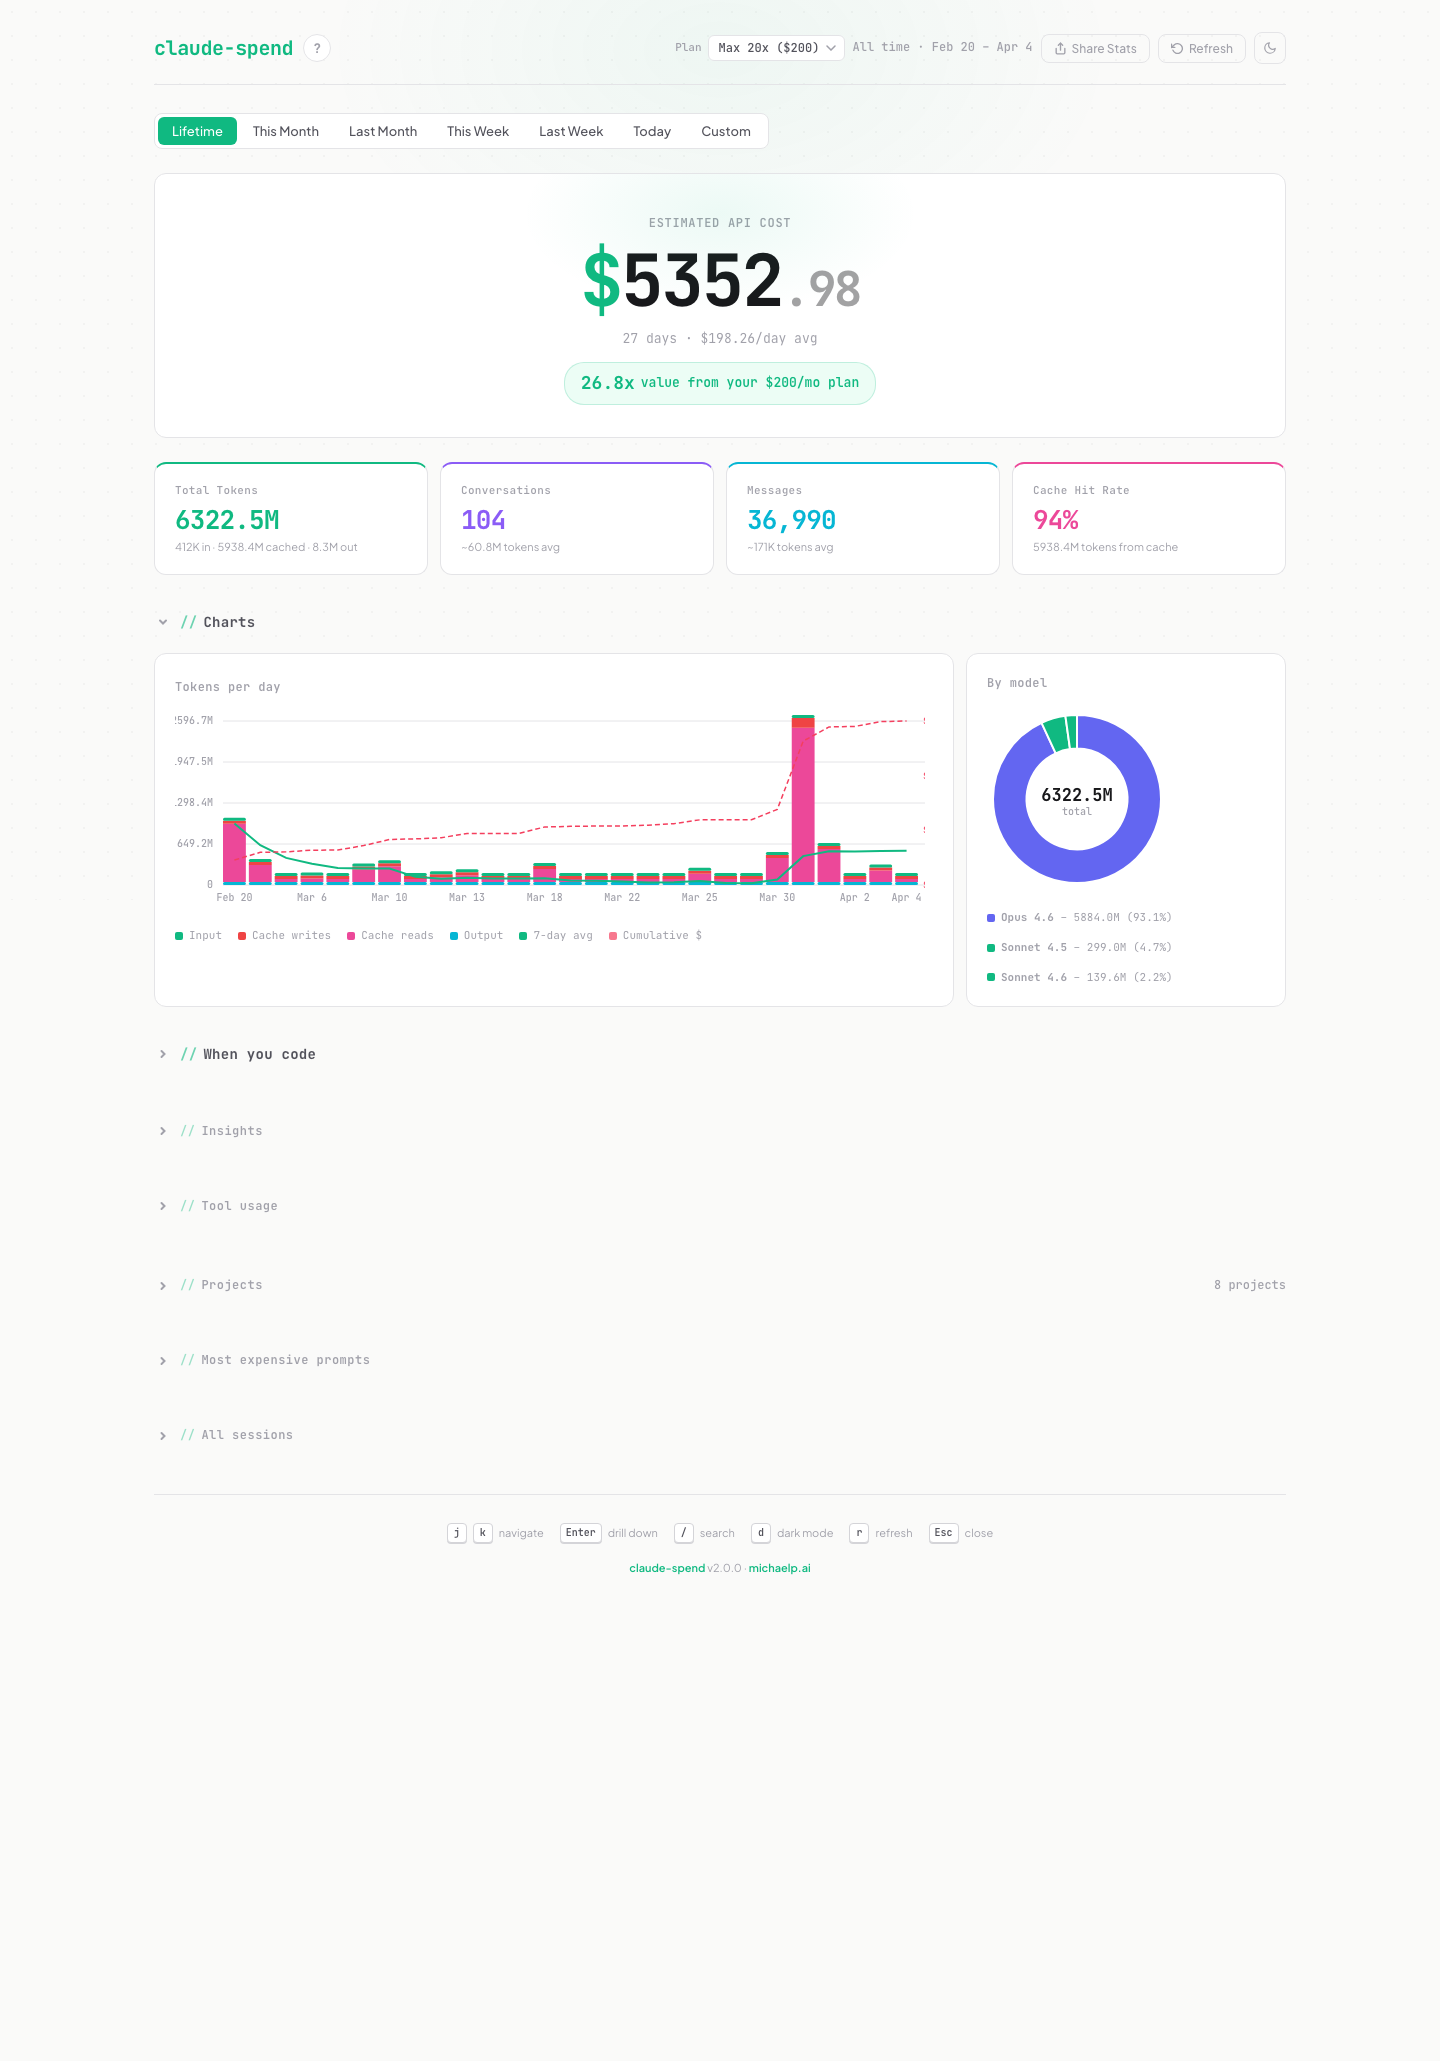
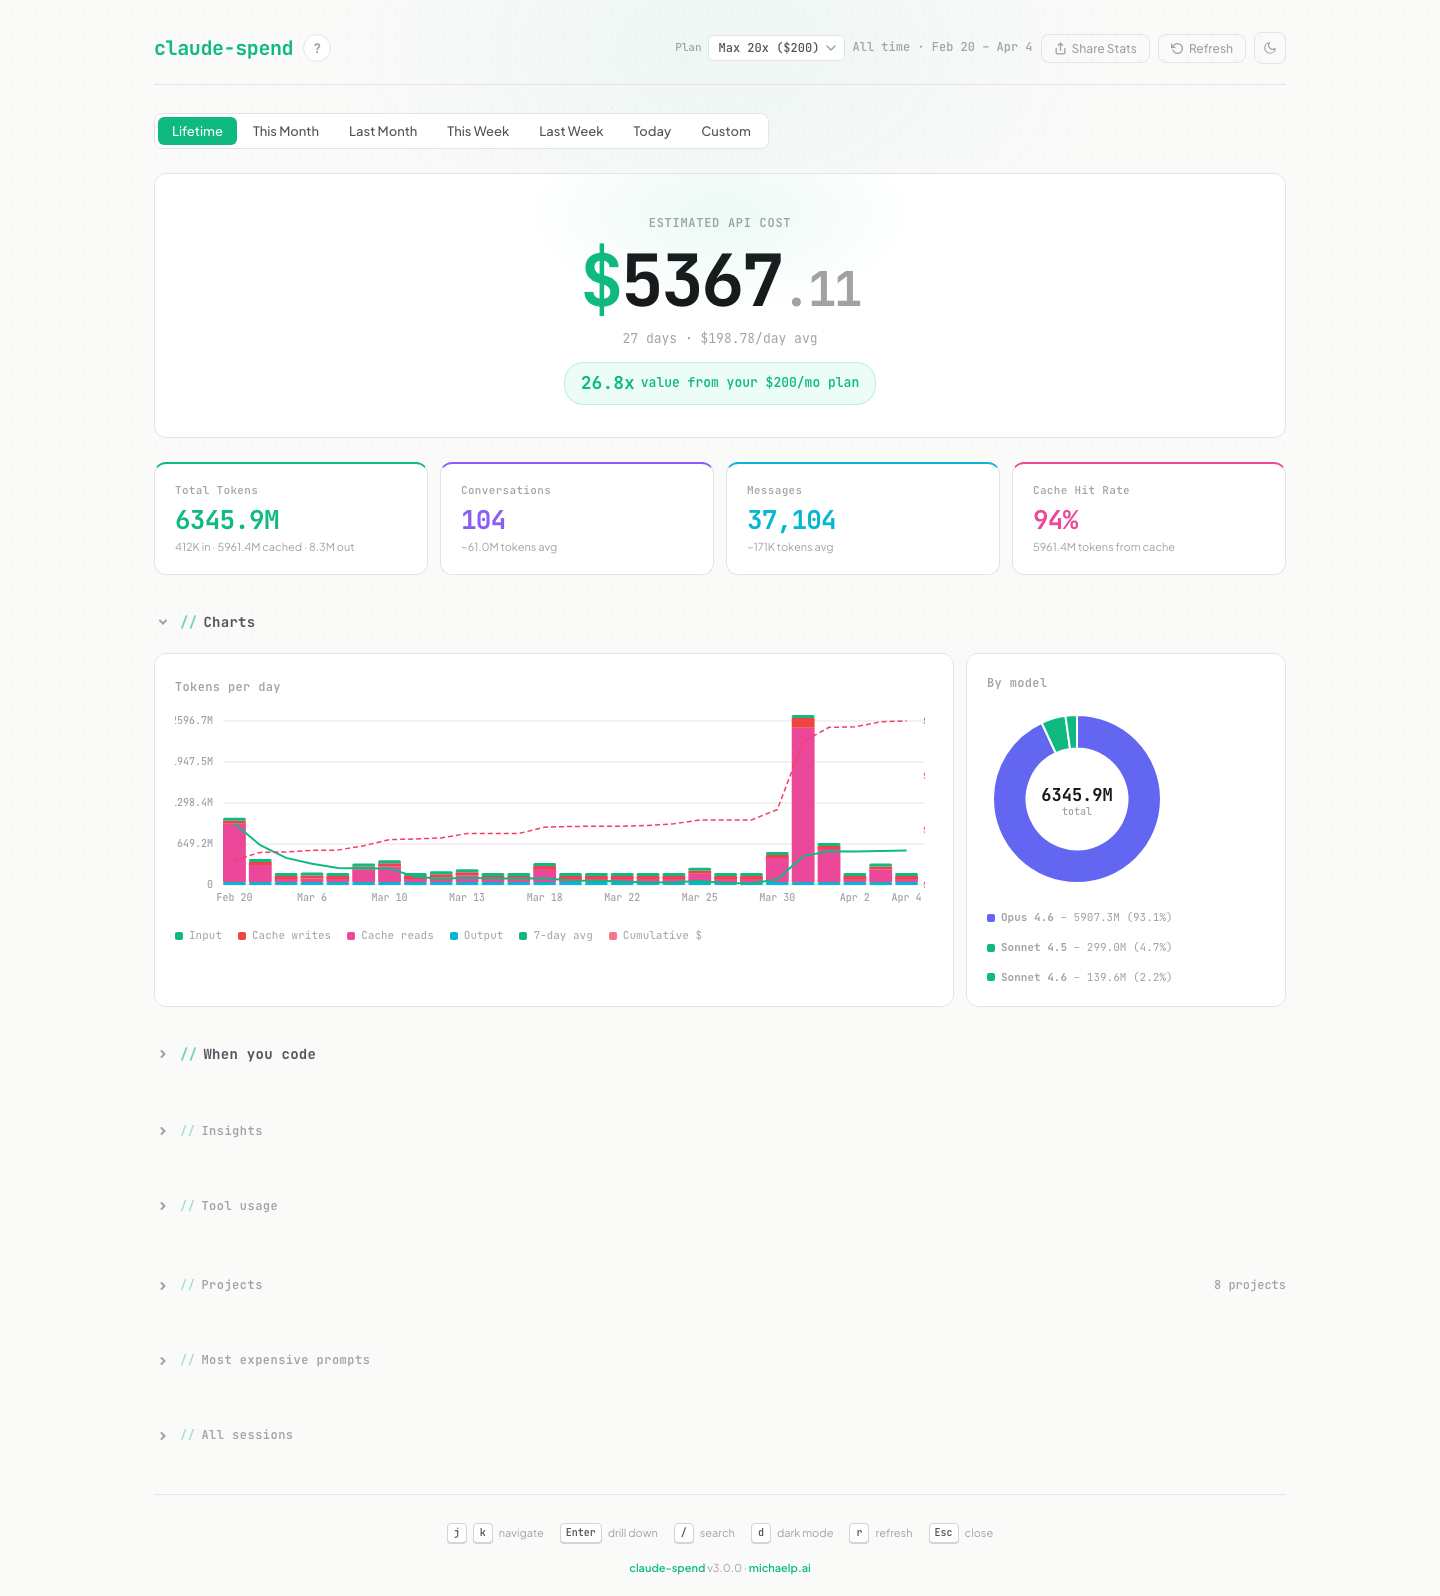
fix: remove scroll gap, update screenshot, add SEO to landing page
- Fix container overflow causing 465px empty scroll after footer
- Update footer version to v3.0.0
- Add full SEO: OG tags, Twitter Card, JSON-LD structured data, canonical URL
- Recapture dashboard screenshot

diff --git a/docs/index.html b/docs/index.html
@@ -4,10 +4,54 @@
 <meta charset="UTF-8">
 <meta name="viewport" content="width=device-width, initial-scale=1.0">
 <title>claude-spend — See where your Claude Code tokens go</title>
-<meta name="description" content="Token usage analytics for Claude Code. See your ROI, find waste, share your stats. One command, no setup.">
-<meta property="og:title" content="claude-spend">
-<meta property="og:description" content="Token usage analytics for Claude Code. See your ROI multiplier instantly.">
+<meta name="description" content="Token usage analytics for Claude Code. See your ROI multiplier, find token waste, track cost trends, and share your stats. One command, no setup, runs locally.">
+<meta name="keywords" content="claude code, token usage, analytics, dashboard, anthropic, claude, spend tracker, ROI, API cost, developer tools, MCP server">
+<meta name="author" content="Michael Palermiti">
+<meta name="robots" content="index, follow">
+<link rel="canonical" href="https://mpalermiti.github.io/claude-spend/">
+
+<!-- Open Graph -->
+<meta property="og:title" content="claude-spend — See where your Claude Code tokens go">
+<meta property="og:description" content="Token analytics for Claude Code. ROI multiplier, activity heatmap, cost trends, share card. One command, runs locally.">
 <meta property="og:type" content="website">
+<meta property="og:url" content="https://mpalermiti.github.io/claude-spend/">
+<meta property="og:image" content="https://mpalermiti.github.io/claude-spend/screenshot.png">
+<meta property="og:image:width" content="1440">
+<meta property="og:image:height" content="3187">
+<meta property="og:site_name" content="claude-spend">
+
+<!-- Twitter Card -->
+<meta name="twitter:card" content="summary_large_image">
+<meta name="twitter:title" content="claude-spend — See where your Claude Code tokens go">
+<meta name="twitter:description" content="Token analytics for Claude Code. See your ROI multiplier instantly. One command, no setup.">
+<meta name="twitter:image" content="https://mpalermiti.github.io/claude-spend/screenshot.png">
+
+<!-- JSON-LD Structured Data -->
+<script type="application/ld+json">
+{
+  "@context": "https://schema.org",
+  "@type": "SoftwareApplication",
+  "name": "claude-spend",
+  "description": "Token usage analytics dashboard for Claude Code. See your ROI multiplier, find token waste, track cost trends, and share your stats.",
+  "url": "https://mpalermiti.github.io/claude-spend/",
+  "applicationCategory": "DeveloperApplication",
+  "operatingSystem": "macOS, Linux, Windows",
+  "offers": {
+    "@type": "Offer",
+    "price": "0",
+    "priceCurrency": "USD"
+  },
+  "author": {
+    "@type": "Person",
+    "name": "Michael Palermiti",
+    "url": "https://michaelp.ai"
+  },
+  "codeRepository": "https://github.com/mpalermiti/claude-spend",
+  "programmingLanguage": "JavaScript",
+  "license": "https://opensource.org/licenses/MIT"
+}
+</script>
+
 <link rel="preconnect" href="https://fonts.googleapis.com">
 <link rel="preconnect" href="https://fonts.gstatic.com" crossorigin>
 <link href="https://fonts.googleapis.com/css2?family=JetBrains+Mono:wght@400;500;600;700&family=Plus+Jakarta+Sans:wght@400;500;600;700&display=swap" rel="stylesheet">

diff --git a/src/public/index.html b/src/public/index.html
@@ -126,7 +126,7 @@
   }
 
   /* Layout */
-  .container { max-width: 1180px; margin: 0 auto; padding: 32px 24px 64px; position: relative; z-index: 1; overflow: visible; }
+  .container { max-width: 1180px; margin: 0 auto; padding: 32px 24px 0; position: relative; z-index: 1; overflow: hidden; }
 
   /* Fade-in animation */
   @keyframes fadeIn {
@@ -978,7 +978,7 @@
     transition: max-height 0.35s cubic-bezier(0.23, 1, 0.32, 1);
   }
   .collapsible-section.section-open > .section-body {
-    max-height: 5000px;
+    max-height: none;
     overflow: visible;
   }
 
@@ -1273,7 +1273,7 @@
       <div class="footer-shortcut"><kbd>Esc</kbd> close</div>
     </div>
     <div class="footer-brand">
-      <a href="https://github.com/mpalermiti/claude-spend">claude-spend</a> v2.0.0 &middot; <a href="https://michaelp.ai">michaelp.ai</a>
+      <a href="https://github.com/mpalermiti/claude-spend">claude-spend</a> v3.0.0 &middot; <a href="https://michaelp.ai">michaelp.ai</a>
     </div>
   </div>
 
